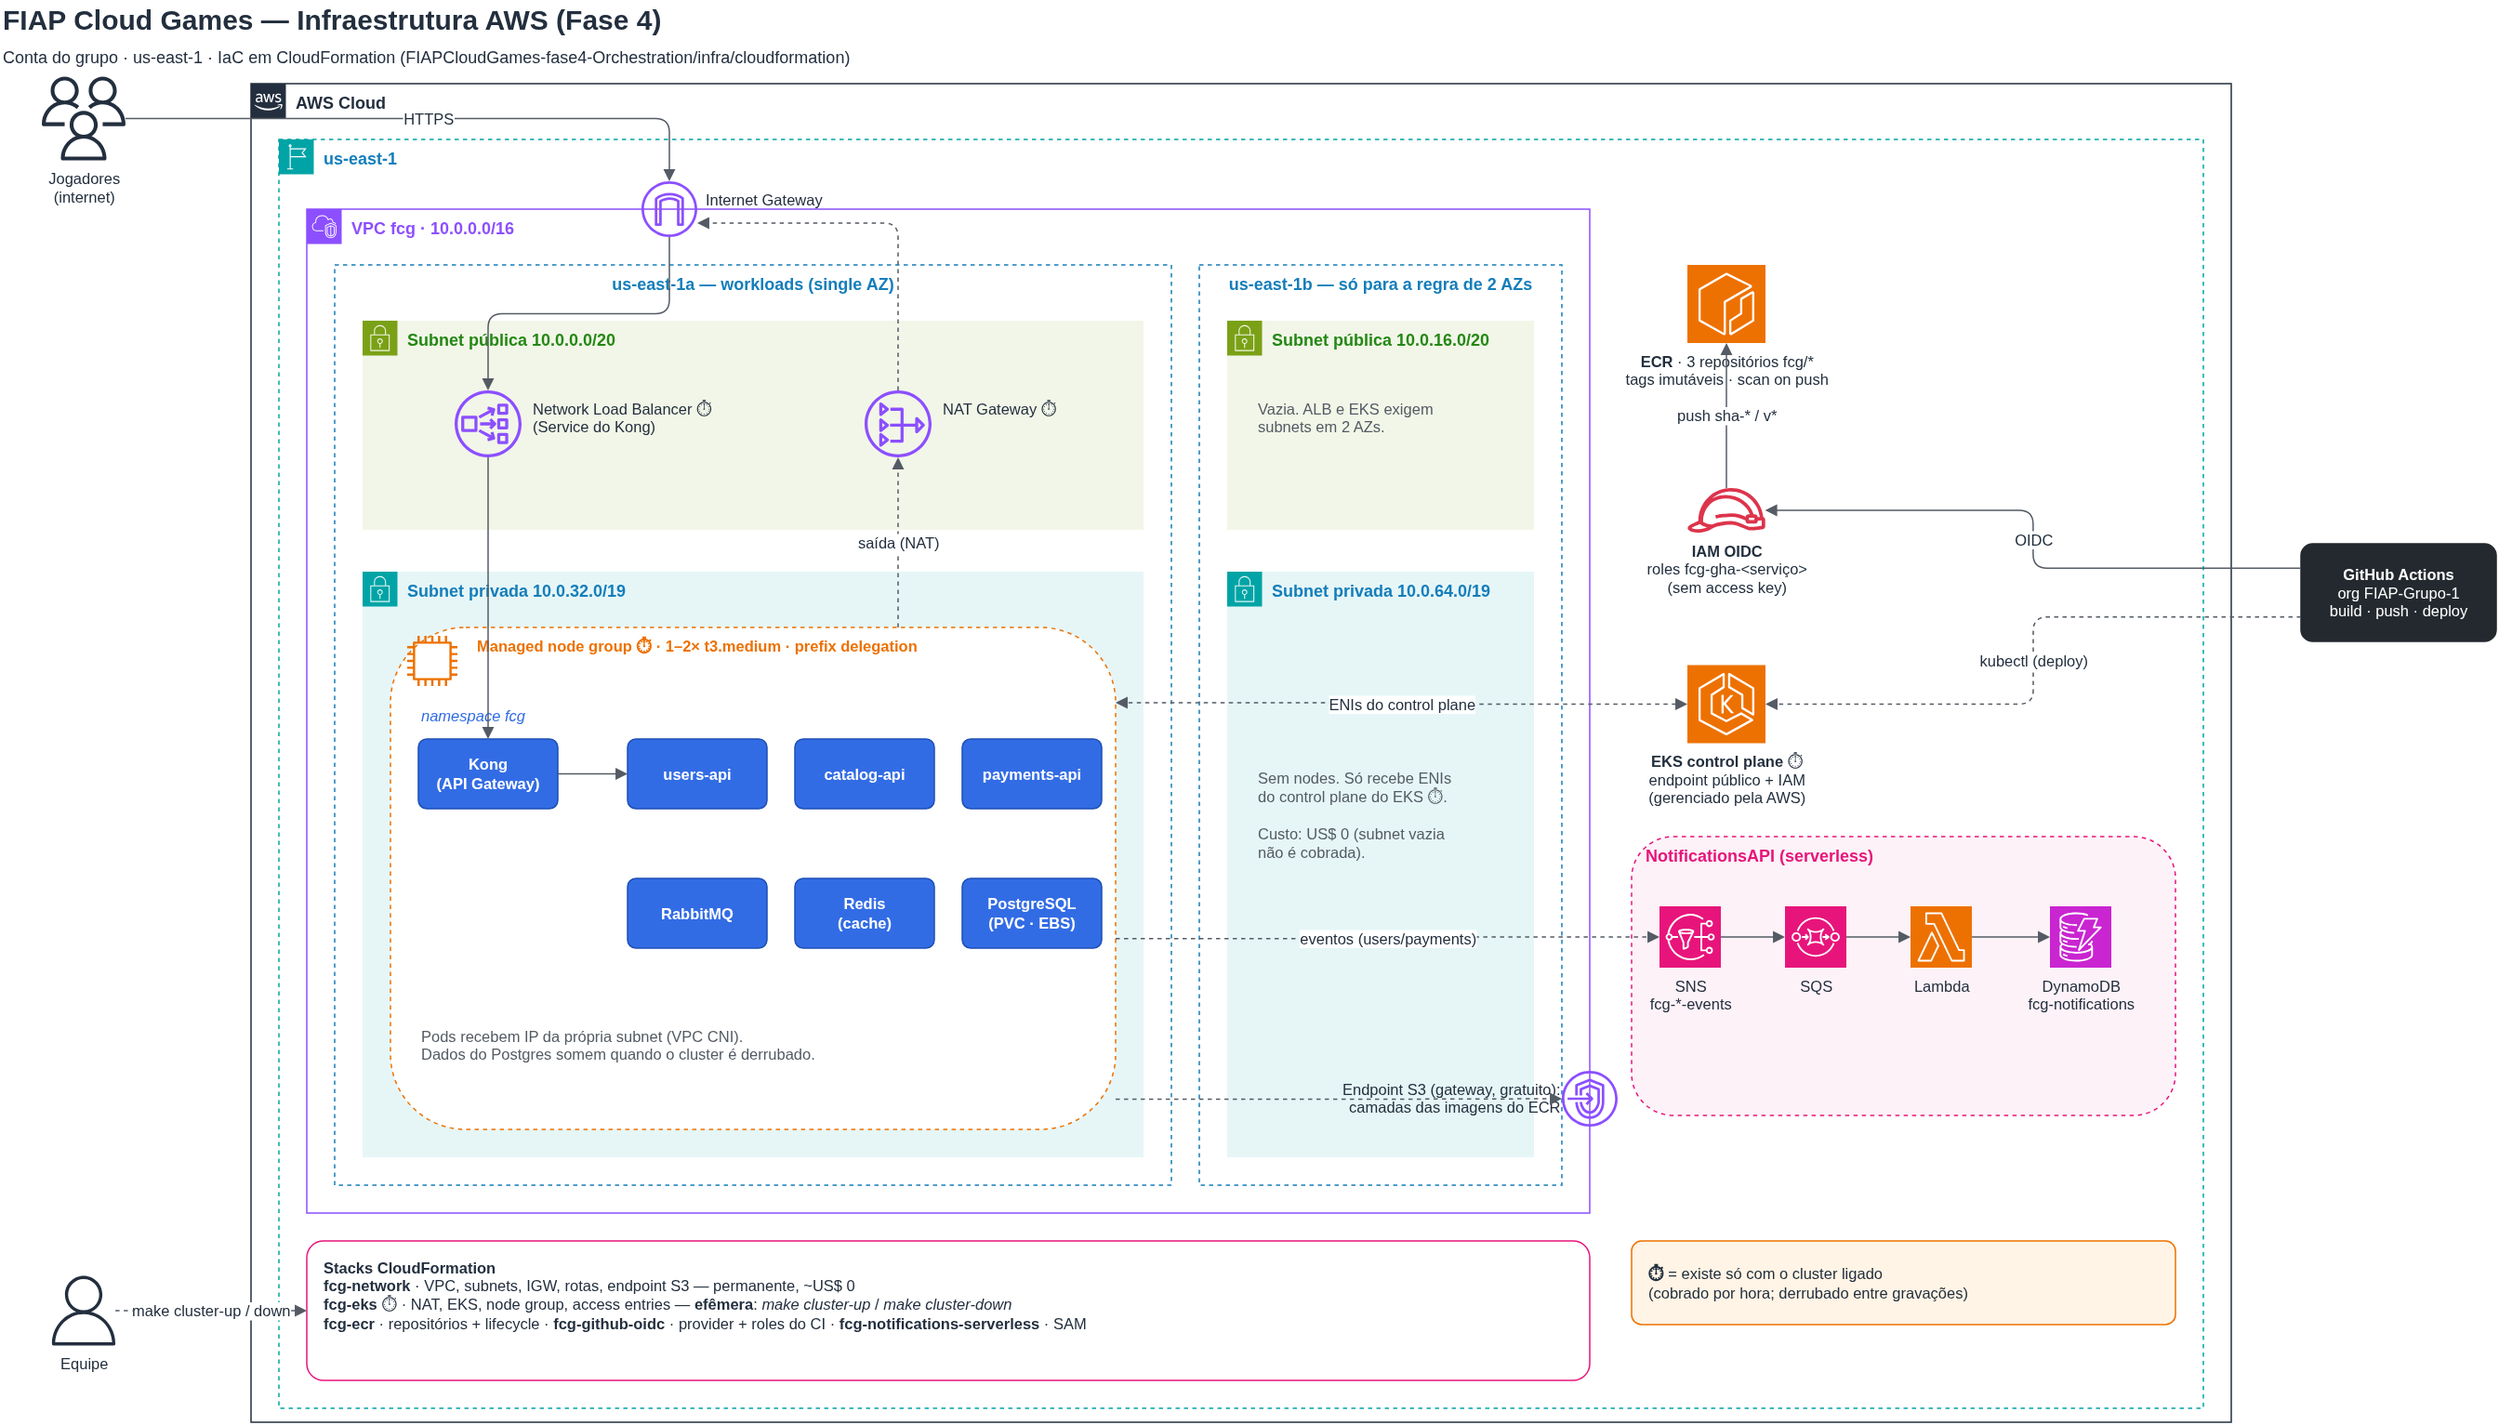
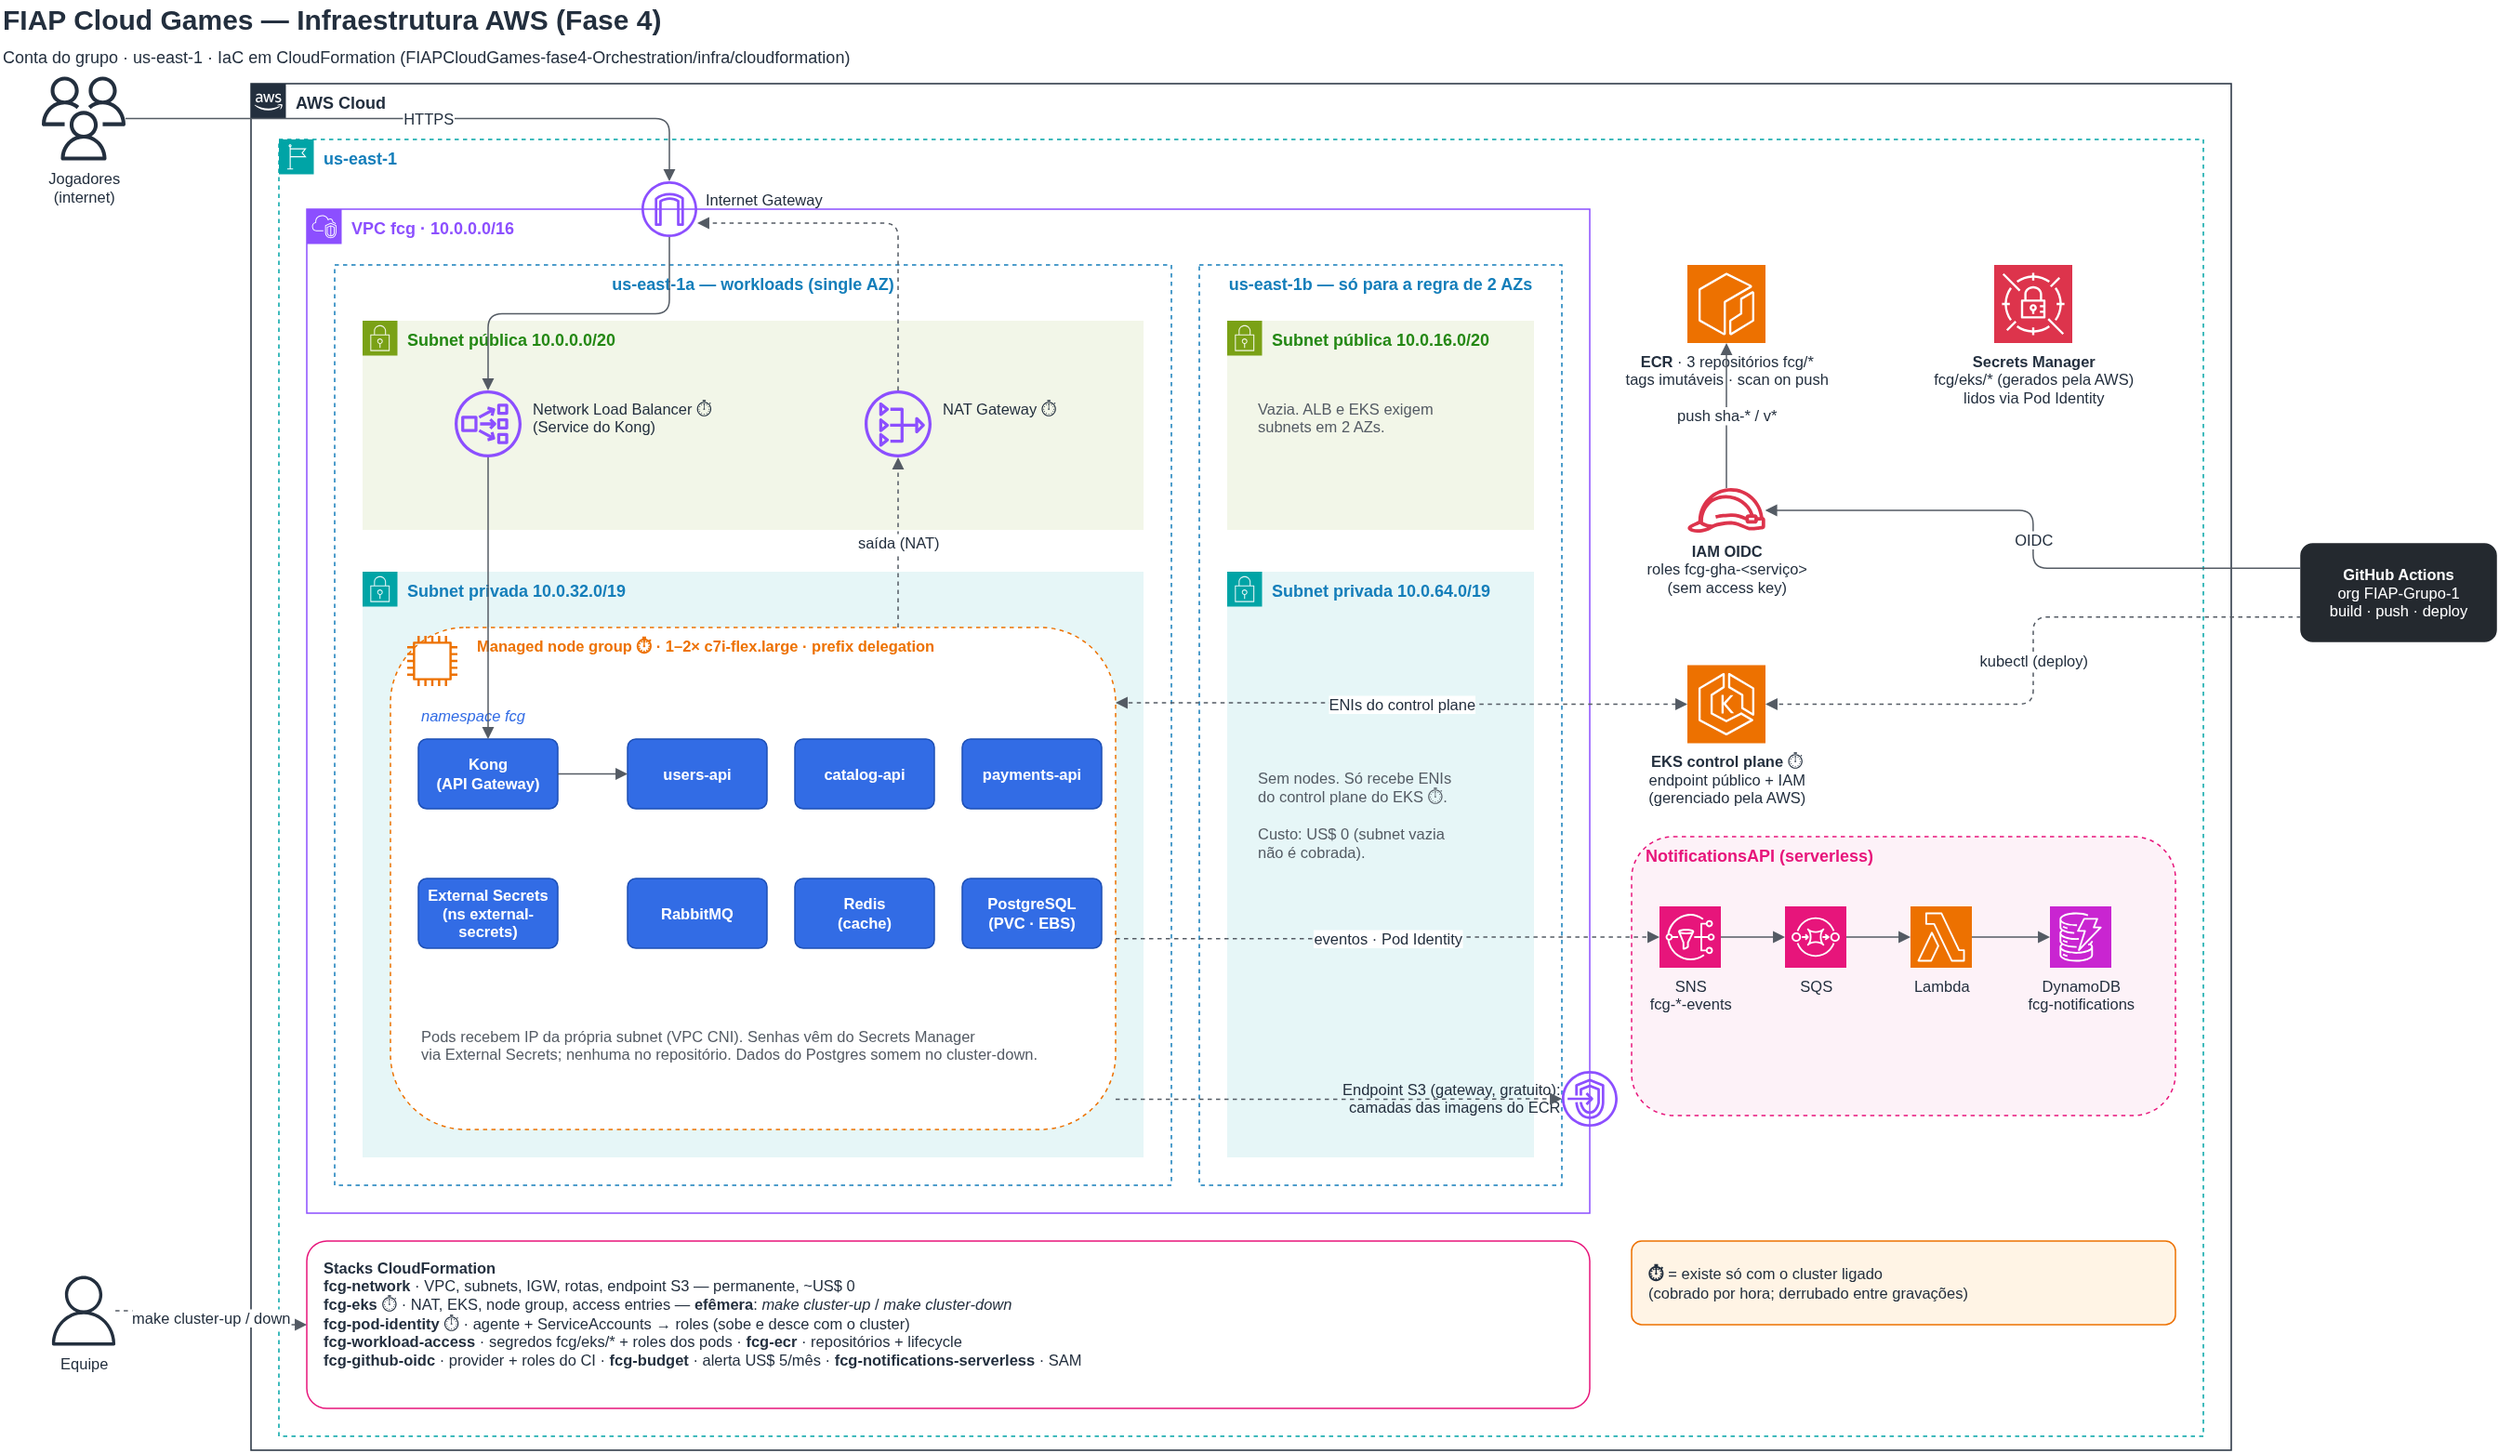
fix(infra): nodes c7i-flex.large (a conta só aceita Free Tier)
A conta está no plano Free da AWS, e o EC2 recusava o t3.medium
("instance type is not eligible for Free Tier", visto no CloudTrail a cada
tentativa do node group). O node group ficava em CREATING sem nenhuma
instância. NodeInstanceType passa a c7i-flex.large (2 vCPU, 4 GiB, mesma
capacidade), com m7i-flex.large (8 GiB) como alternativa permitida.

O c7i-flex.large custa US$ 0,085/h, o dobro do t3.medium: README atualizado
(~US$ 0,32/h com 2 nodes). Diagrama atualizado com o tipo novo e com o que
entrou nos PRs #5-#10: External Secrets, Secrets Manager, Pod Identity nos
eventos para o SNS e as stacks novas na legenda.

Diagnóstico do Anderson.

diff --git a/README.md b/README.md
@@ -678,10 +678,16 @@ não é requisito do TC, então redundância entre AZs só custaria dinheiro.
 | Stack | O que tem | Quando existe |
 |---|---|---|
 | `fcg-network` (`vpc.yaml`) | VPC `10.0.0.0/16`, 2 subnets públicas `/20`, 2 privadas `/19`, Internet Gateway, endpoint S3 (gateway, gratuito) | sempre (~US$ 0) |
-| `fcg-eks` (`eks.yaml`) | NAT Gateway, cluster EKS, node group (1–2× `t3.medium`), add-ons, acesso do CI | **só quando ligado**: cobrado por hora |
+| `fcg-eks` (`eks.yaml`) | NAT Gateway, cluster EKS, node group (1–2× `c7i-flex.large`), add-ons, acesso do CI | **só quando ligado**: cobrado por hora |
+
+**Tipo dos nodes:** a conta está no plano Free da AWS, que só deixa criar instâncias elegíveis ao Free
+Tier (`aws ec2 describe-instance-types --filters Name=free-tier-eligible,Values=true`). Por isso os nodes
+são `c7i-flex.large` (2 vCPU, 4 GiB), não `t3.medium`. Para mais memória: `m7i-flex.large` (8 GiB), pelo
+parâmetro `NodeInstanceType`.
 
 O cluster é **efêmero**: o EKS cobra por hora (US$ 0,10/h só o control plane), não por mês. Ligado o
-mês inteiro custaria ~US$ 160; com ~20 h de uso, uns US$ 5.
+mês inteiro custaria ~US$ 230 (~US$ 0,32/h: control plane US$ 0,10 + NAT US$ 0,045 + 2 nodes a US$ 0,085);
+com ~20 h de uso, uns US$ 6.
 
 ```bash
 export AWS_PROFILE=fcg     # conta do grupo (ver aviso acima)
@@ -697,7 +703,7 @@ make cluster-down          # derruba o cluster (10-15 min); a rede fica
 - **Pod Identity:** se a stack `fcg-workload-access` (segredos e roles dos pods) existir, o `cluster-up` já
   sobe a `fcg-pod-identity`, e o `cluster-down` a remove antes do cluster. Depois do `cluster-up`, os
   workloads sobem com `make workloads-deploy` (ver `docs/eks-workloads-e-segredos.md`).
-- **Prefix delegation** no VPC CNI: sem ela um `t3.medium` aceita só 17 pods. O `cluster-up` mostra a
+- **Prefix delegation** no VPC CNI: sem ela um `c7i-flex.large` aceita só 29 pods. O `cluster-up` mostra a
   capacidade de pods de cada node no final.
 - **`cluster-down` apaga o namespace `fcg` antes da stack.** O NLB do Kong e os volumes EBS são criados
   pelo Kubernetes, não pelo CloudFormation, e sobrariam cobrando. Os **dados do Postgres somem** a cada
